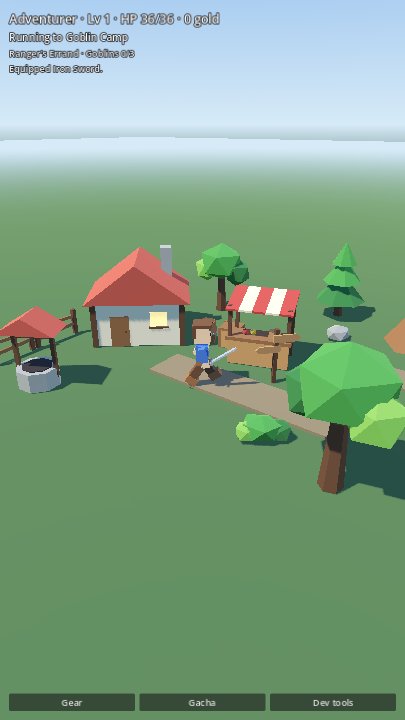
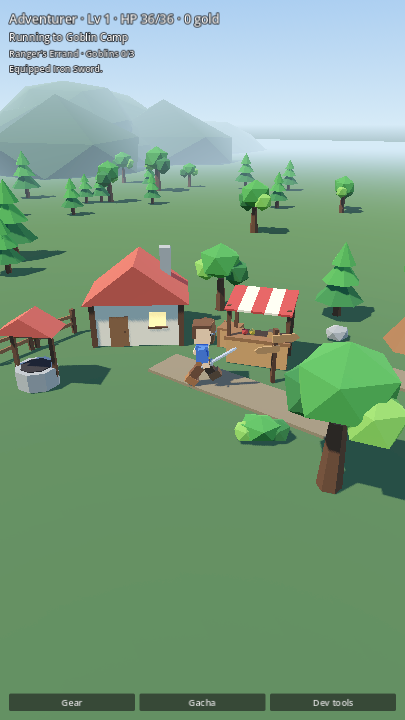
Add distant hills and trees to the horizon
New backdrop category in the art build (hill_round, hill_ridge) and a
seeded scatter of hills and trees beyond the play area, on the side the
fixed camera looks towards. Refresh the in-engine review captures.

diff --git a/tools/art/models/backdrops.py b/tools/art/models/backdrops.py
@@ -1,0 +1,22 @@
+"""Backdrop scenery seen far beyond the play area. Origin on the ground at the centre."""
+
+from lowpoly import Part
+
+from . import model
+
+
+@model("hill_round", "backdrop")
+def hill_round():
+    part = Part("hill_round")
+    part.ball(12.0, (0, 0, 0.5), "grass", scale=(1.3, 1.1, 0.5), detail=2, jitter=0.06, seed=31, floor=0.0)
+    part.ball(7.0, (11.0, 3.0, 0.0), "grass_dark", scale=(1.2, 1.0, 0.5), detail=1, jitter=0.08, seed=32, floor=0.0)
+    return [part]
+
+
+@model("hill_ridge", "backdrop")
+def hill_ridge():
+    part = Part("hill_ridge")
+    part.ball(9.0, (-8.0, 0, 0.0), "grass_dark", scale=(1.3, 1.0, 0.75), detail=1, jitter=0.1, seed=33, floor=0.0)
+    part.ball(11.0, (4.0, 1.0, 0.0), "grass", scale=(1.2, 0.9, 0.9), detail=2, jitter=0.07, seed=34, floor=0.0)
+    part.ball(6.0, (14.0, -1.0, 0.0), "stone_dark", scale=(1.0, 0.9, 1.3), detail=1, jitter=0.12, seed=35, floor=0.0)
+    return [part]

diff --git a/tools/art/build.py b/tools/art/build.py
@@ -38,6 +38,7 @@ VIEWS = {
     "armour": (30, 15, 0),
     "prop": (35, 20, 0),
     "character": (35, 20, 0),
+    "backdrop": (35, 20, 0),
 }
 
 
@@ -107,7 +108,7 @@ def build_model(spec, gear):
         errors.append("%.2f m across, limit %.2f" % (max(size), max_size))
     if len(colours) > max_materials:
         errors.append("%d materials, limit %d" % (len(colours), max_materials))
-    if spec.category in ("prop", "character") and not -0.01 <= low.z <= 0.05:
+    if spec.category in ("prop", "character", "backdrop") and not -0.01 <= low.z <= 0.05:
         errors.append("does not sit on the ground (lowest point %.2f)" % low.z)
     if spec.category == "weapon" and not all(low[i] <= 0.0 <= high[i] for i in range(3)):
         errors.append("origin is not on the grip")

diff --git a/tools/art/models/__init__.py b/tools/art/models/__init__.py
@@ -10,6 +10,7 @@ BUDGETS = {
     "armour": (250, 1.0, 5),
     "prop": (500, 5.0, 6),
     "character": (800, 2.0, 8),
+    "backdrop": (300, 45.0, 3),
 }
 
 MODELS = {}
@@ -23,4 +24,4 @@ def model(model_id, category, item=None):
     return register
 
 
-from . import armour, characters, props, weapons  # noqa: E402,F401
+from . import armour, backdrops, characters, props, weapons  # noqa: E402,F401

diff --git a/tools/art/palette.py b/tools/art/palette.py
@@ -36,6 +36,8 @@ PALETTE = {
     "leaf": ("#3f8a3a", 0.0, 1.0, 0.0),
     "leaf_dark": ("#2e6b33", 0.0, 1.0, 0.0),
     "leaf_light": ("#6fae45", 0.0, 1.0, 0.0),
+    "grass": ("#3d5c33", 0.0, 1.0, 0.0),
+    "grass_dark": ("#34502d", 0.0, 1.0, 0.0),
     "plaster": ("#d9cdb0", 0.0, 1.0, 0.0),
     "roof": ("#a8473a", 0.0, 1.0, 0.0),
     "black": ("#23201f", 0.0, 1.0, 0.0),

diff --git a/docs/ART_PIPELINE.md b/docs/ART_PIPELINE.md
@@ -34,6 +34,7 @@ install folder. The outputs are committed, so the game, the tests and CI do not 
 | armour | 250 | 1.0 m | 5 | |
 | prop | 500 | 5.0 m | 6 | sits on the ground |
 | character | 800 | 2.0 m | 8 | sits on the ground |
+| backdrop | 300 | 45 m | 3 | sits on the ground |
 
 Budgets live in `tools/art/models/__init__.py`. Colours come only from `tools/art/palette.py`;
 change a colour there and every model that uses it changes on the next build.
